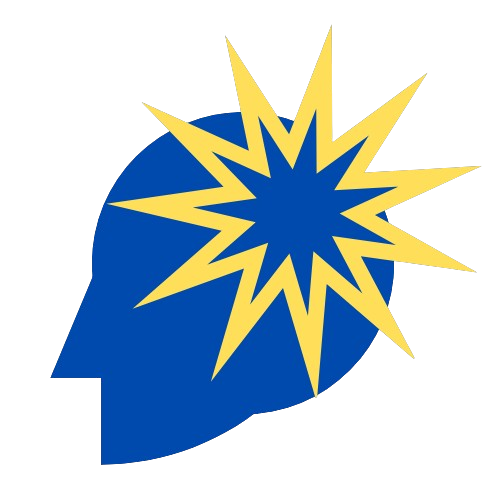
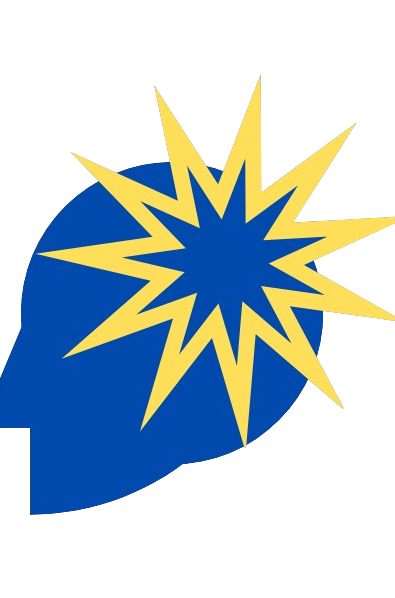
hioj

Changed region(s): [[0.0, 0.06, 1.0, 0.93], [0.1823, 0.24, 0.2127, 0.27]]

diff --git a/src/App.tsx b/src/App.tsx
@@ -257,14 +257,19 @@ export default function App() {
             </video>
           ))}
         </div>
-        <div
-          className="ai-usage-effect"
-          style={{ textAlign: "center", fontSize: "30px" }}
-        >
-          AI is a powerful tool, but how much time does it really save?
-        </div>
         {!submitted && (
           <>
+            <div
+              className="ai-usage-effect"
+              style={{
+                textAlign: "center",
+                fontSize: "30px",
+                marginTop: "-30px",
+                marginBottom: "30px",
+              }}
+            >
+              AI is a powerful tool, but how much time does it really save?
+            </div>
             <Slider question={prompts.question} onChange={prompts.setValue} />
             <PercentageScrollbar
               question={models.question}
@@ -323,7 +328,7 @@ export default function App() {
               <h4>in the last month!</h4>
             </div>
             <div
-              className="answer-card isShadow"
+              className={transitioned ? "isShadow answer-card" : "answer-card"}
               style={{
                 textAlign: "center",
                 marginBottom: "-40px",
@@ -352,8 +357,12 @@ export default function App() {
             <div id="trigger-point"></div>
 
             <div
-              className="answer-card isShadow"
-              style={{ textAlign: "left", marginBottom: "-200px" }}
+              className="answer-card"
+              style={{
+                textAlign: "left",
+                marginBottom: "-300",
+                marginTop: "0",
+              }}
             >
               <>
                 <div
@@ -363,7 +372,7 @@ export default function App() {
                     gap: "40px",
                   }}
                 >
-                  <div style={{ flex: 1 }}>
+                  <div className="isShadow" style={{ flex: 2 }}>
                     {userType() == 0 && (
                       <div className="ai-usage-effect">
                         You use AI occasionally, and that probably feels
@@ -430,7 +439,7 @@ export default function App() {
 
                   <div style={{ flex: 1 }}>
                     <img
-                      src="your-image.jpg"
+                      src="brain.png"
                       alt="Description"
                       style={{ width: "100%", borderRadius: "12px" }}
                     />